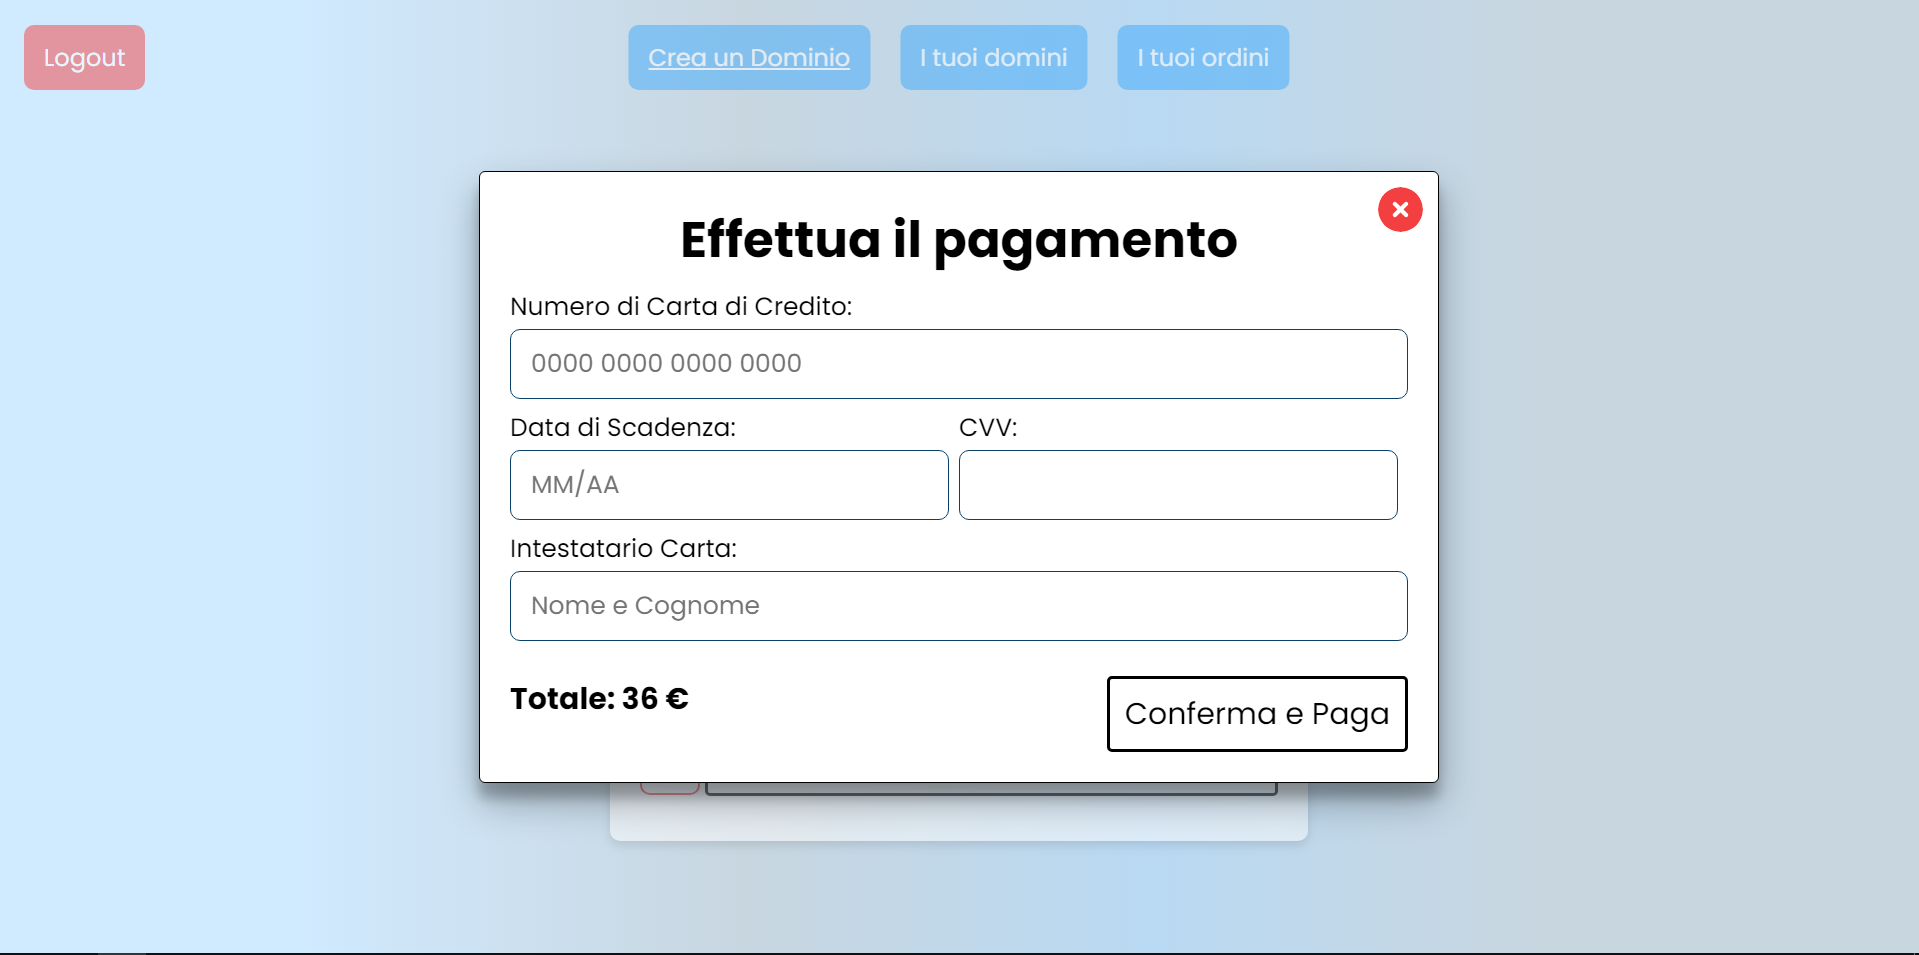
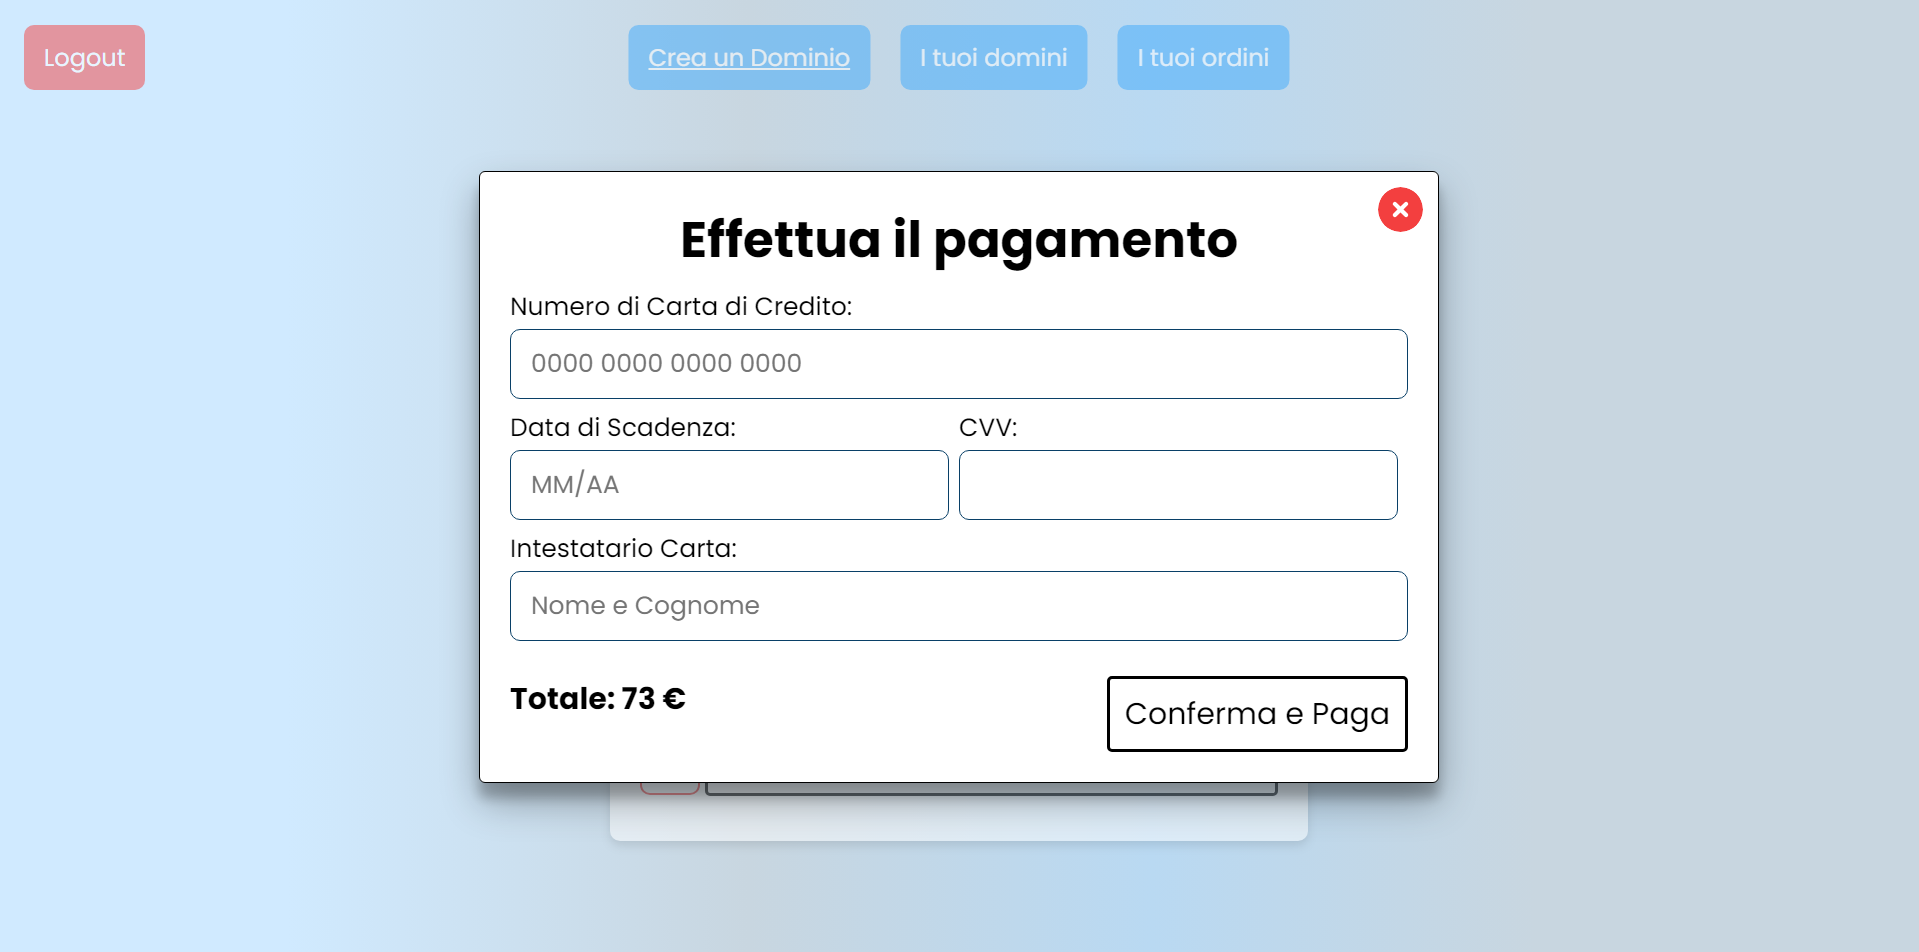
fine

diff --git a/client-web/script.js b/client-web/script.js
@@ -389,8 +389,9 @@ function initializeRinnovoPopup() {
 }
 
 function openRinnovoPopup(item) {
-    //genero prezzo random
-    document.getElementById('costo-rinnovo').textContent = "Totale: " + Math.floor(Math.random() * 100) + " €";
+    //genero prezzo random da 50 a 100
+    const prezzo = Math.floor(Math.random() * 50) + 50;
+    document.getElementById('costo-rinnovo').textContent = "Totale: " + prezzo + " €";
 
     currentIdPrenotazione = item["idPrenotazione"];
     const durataPrecedente = item["durata"];
@@ -709,7 +710,8 @@ document.getElementById('submit-create-domain').addEventListener('click', async 
             });
 
             //genero prezzo random
-            document.getElementById('payment-value').textContent = "Totale: " + Math.floor(Math.random() * 100) + " €";
+            const prezzo = Math.floor(Math.random() * 50) + 50;
+            document.getElementById('payment-value').textContent = "Totale: " + prezzo + " €";
 
             // mostro popUp pagamento
             document.getElementById('paymentPopup').style.display = 'block';

diff --git a/README.md b/README.md
@@ -21,6 +21,8 @@ Per avviare il client Web è necessario utilizzare l'estensione "Live Preview" s
 
 **Attenzione**: è necessario configurare CORS in Google Chrome come mostrato nel laboratorio. Avendo riscontrato diversi problemi con l'estensione suggerita in laboratorio consigliamo di installare l'estensione "CROSS DOMAIN - Cors" presente sul Chrome Web Store.
 
+**Attenzione**: è fortemente consigliato l'utilizzo del browser `Google Chrome` siccome con altri browser quali `Microsoft Edge` per esempio si possono riscontrare errori dovuti al formato di gestione delle date del browser.
+
 ### Server Web
 
 Il server Web utilizza Jetty e Jersey. Si può avviare eseguendo `mvn jetty:run` all'interno della cartella `server-web`. Espone le API REST all'indirizzo `localhost` alla porta `8080`.
